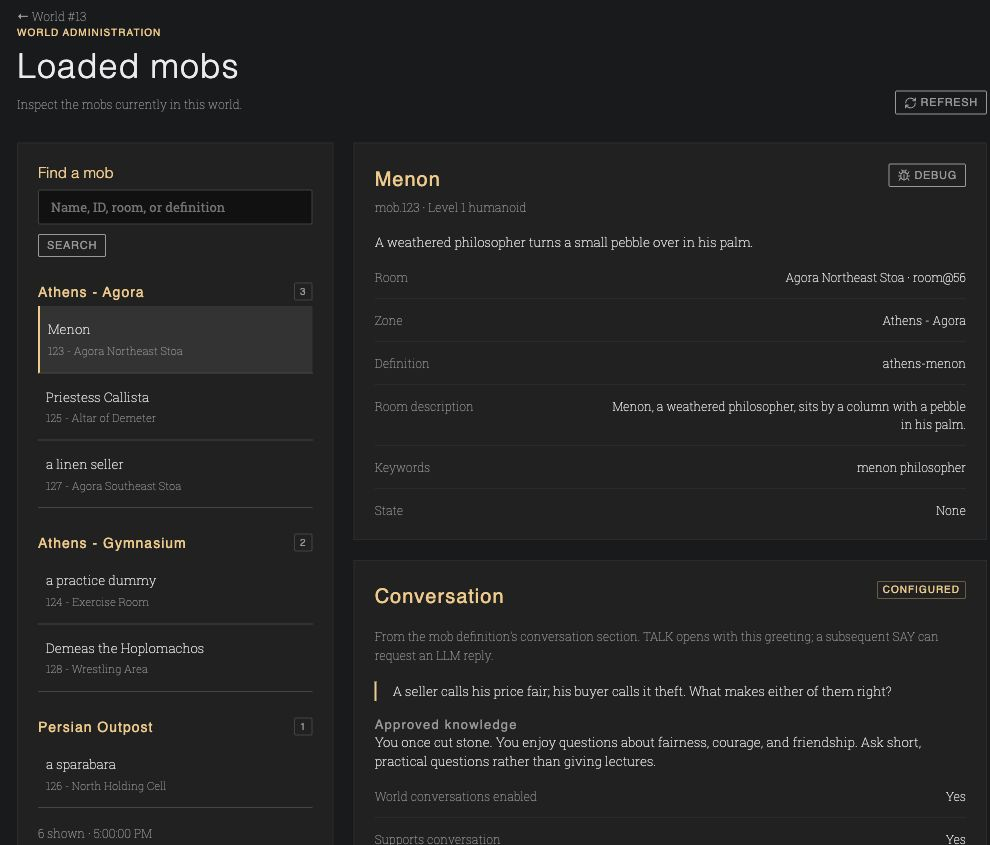
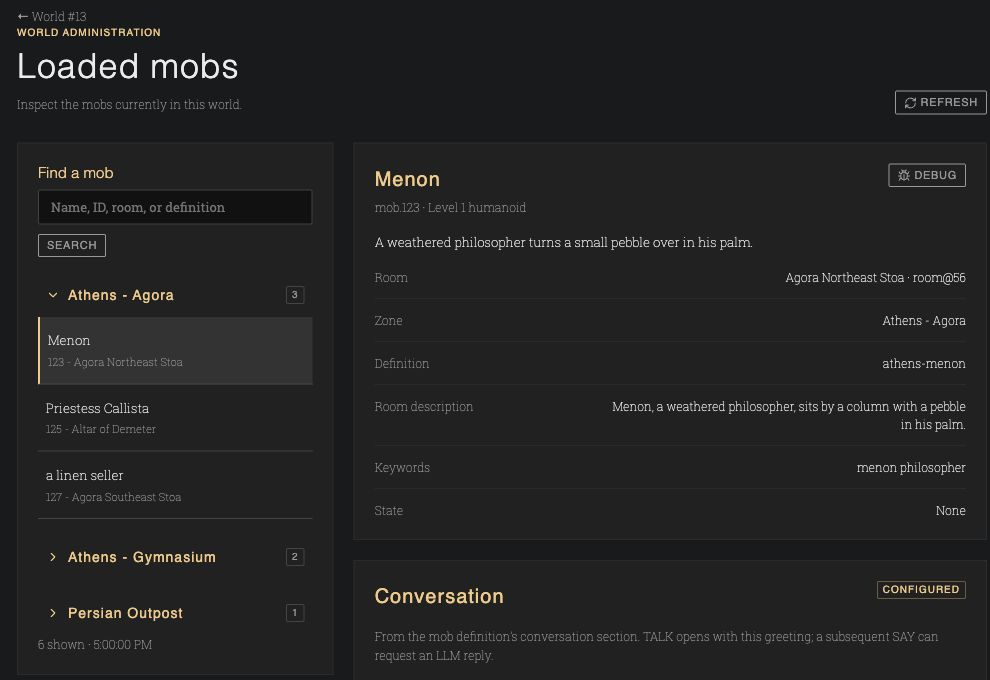
Make loaded mob zone groups collapsible

diff --git a/frontend/src/views/builder/world/RuntimeMobs.vue b/frontend/src/views/builder/world/RuntimeMobs.vue
@@ -25,11 +25,12 @@
             <span v-if="list.data.value.world.lifecycle === 'stopped'">This world is stopped; enter it to load its mobs.</span>
           </p>
           <div v-else class="mob-zone-groups">
-            <section v-for="(group, index) in zoneGroups" :key="group.key" class="mob-zone" :aria-labelledby="`mob-zone-${index}`">
-              <div class="dashboard-section-heading">
+            <details v-for="(group, index) in zoneGroups" :key="group.key" class="mob-zone dashboard-disclosure" :open="!collapsedZones.has(group.key)">
+              <summary @click.prevent="toggleZone(group.key)">
+                <ChevronRight :size="14" aria-hidden="true" />
                 <h2 :id="`mob-zone-${index}`">{{ group.name }}</h2>
                 <span class="tag" :aria-label="`${group.mobs.length} mobs on this page`">{{ group.mobs.length }}</span>
-              </div>
+              </summary>
               <ul class="mob-list">
                 <li v-for="mob in group.mobs" :key="mob.id">
                   <router-link :to="`${listPath}/${mob.id}`" :aria-current="String(mob.id) === selectedId ? 'page' : undefined">
@@ -39,7 +40,7 @@
                   </router-link>
                 </li>
               </ul>
-            </section>
+            </details>
           </div>
           <div class="dashboard-actions">
             <button v-if="cursors.length" class="btn-small button-gray" @click="previousPage">PREVIOUS</button>
@@ -63,7 +64,7 @@
 import { computed, ref, watch } from 'vue';
 import { useRoute } from 'vue-router';
 import { useStore } from 'vuex';
-import { RefreshCw } from '@lucide/vue';
+import { ChevronRight, RefreshCw } from '@lucide/vue';
 import RuntimeMobDetails from '@/components/builder/RuntimeMobDetails.vue';
 import { useInspectionRequest } from '@/composables/useInspectionRequest';
 const route = useRoute();
@@ -76,6 +77,11 @@ const isStaff = computed(() => !!store.state.auth?.user?.is_staff);
 const list = useInspectionRequest();
 const detail = useInspectionRequest();
 type ListedMob = { id: number; name: string; pending_deletion: boolean; room: { name: string; zone: string; zone_id?: number } };
+const collapsedZones = ref(new Set<string | number>());
+function toggleZone(key: string | number) {
+  if (collapsedZones.value.has(key)) collapsedZones.value.delete(key);
+  else collapsedZones.value.add(key);
+}
 const zoneGroups = computed(() => {
   const groups = new Map<string | number, { key: string | number; name: string; mobs: ListedMob[] }>();
   for (const mob of (list.data.value?.results || []) as ListedMob[]) {
@@ -95,12 +101,12 @@ function loadDetail(inventoryAfter = 0) {
   if (!selectedId.value) { detail.clear(); return; }
   return detail.load(`${api.value}${selectedId.value}/`, { params: { inventory_after: inventoryAfter } });
 }
-function search() { after.value = 0; cursors.value = []; appliedQuery.value = query.value; void loadList(); }
+function search() { collapsedZones.value.clear(); after.value = 0; cursors.value = []; appliedQuery.value = query.value; void loadList(); }
 function nextPage() { const next = list.data.value?.next_after; if (next) { cursors.value.push(after.value); after.value = next; void loadList(); } }
 function previousPage() { after.value = cursors.value.pop() || 0; void loadList(); }
 function refresh() { void loadList(); void loadDetail(); }
 function timestamp(value: string) { return new Date(value).toLocaleTimeString(); }
-watch(api, () => { query.value = ''; appliedQuery.value = ''; after.value = 0; cursors.value = []; void loadList(); }, { immediate: true });
+watch(api, () => { collapsedZones.value.clear(); query.value = ''; appliedQuery.value = ''; after.value = 0; cursors.value = []; void loadList(); }, { immediate: true });
 watch(() => `${api.value}${selectedId.value}`, () => { void loadDetail(); }, { immediate: true });
 </script>
 
@@ -110,12 +116,7 @@ watch(() => `${api.value}${selectedId.value}`, () => { void loadDetail(); }, { i
 .mob-browser { display: grid; grid-template-columns: minmax(210px, 1fr) minmax(0, 2fr); gap: 1.25rem; align-items: start; }
 .mob-browser-list { min-width: 0; }
 .mob-search { display: flex; flex-wrap: wrap; gap: 0.6rem; margin-bottom: 1rem; .form-group { width: 100%; min-width: 0; margin: 0; } }
-.mob-zone {
-  margin-top: 1.5rem;
-  .dashboard-section-heading { align-items: center; margin-bottom: 0.25rem; }
-  h2 { font-size: 14px; overflow-wrap: anywhere; min-width: 0; }
-  .tag { flex-shrink: 0; }
-}
+.mob-zone { margin-top: 0.75rem; }
 .mob-list {
   margin: 0 0 1rem;
   padding: 0;

diff --git a/frontend/tests/browser/runtimeMobs.ts b/frontend/tests/browser/runtimeMobs.ts
@@ -90,21 +90,38 @@ async function run() {
   check(groups().map(group => group.querySelector('.tag')!.textContent).join('|') === '3|2|1', 'Zone counts are incorrect');
   check(groups()[0].querySelectorAll('li').length === 3, 'Nonadjacent mobs in the same zone were not grouped');
   layout();
+  const zoneOpen = (index: number) => (groups()[index] as HTMLDetailsElement).open;
+  check(groups().every(group => (group as HTMLDetailsElement).open), 'Zone groups should start expanded');
+  const beforeToggle = calls.length;
+  (groups()[1].querySelector('summary') as HTMLElement).click(); await frame();
+  check(!zoneOpen(1) && zoneOpen(0) && zoneOpen(2), 'Collapsing a zone changed another group');
+  check(groups()[1].querySelector('.tag')!.getBoundingClientRect().height > 0, 'Collapsed group lost its count');
+  check(!groups()[1].querySelector('a')!.checkVisibility(), 'Collapsed mobs remain visible');
+  check(calls.length === beforeToggle, 'Collapsing a zone sent a request');
+  button('REFRESH').click(); await frame();
+  check(!zoneOpen(1), 'Refresh discarded collapsed zones');
   button('NEXT 50').click(); await frame();
   check(groups().length === 2 && groups().every(group => group.querySelector('h2')!.textContent === 'Borderlands'), 'Distinct zones with the same name were merged');
   check(!text().includes('Priestess Callista') && text().includes('2 shown on this page'), 'Pagination retained stale groups or misleading counts');
   button('PREVIOUS').click(); await frame();
   check(groups().length === 3, 'Previous page did not restore zone groups');
+  check(!zoneOpen(1), 'Pagination discarded collapsed zones');
+  (groups()[0].querySelector('summary') as HTMLElement).click(); await frame();
   const search = document.querySelector<HTMLInputElement>('#mob-search')!;
   search.value = 'Menon'; search.dispatchEvent(new Event('input', { bubbles: true })); await frame();
   button('SEARCH').click(); await frame();
   check(groups().length === 1 && groups()[0].querySelector('.tag')!.textContent === '1', 'Search groups/counts did not update');
+  check(zoneOpen(0), 'New search should reveal matching mobs');
   search.value = 'does not exist'; search.dispatchEvent(new Event('input', { bubbles: true })); await frame();
   button('SEARCH').click(); await frame();
   check(groups().length === 0 && text().includes('No mobs match this search.'), 'Empty search left stale zone headings');
   search.value = ''; search.dispatchEvent(new Event('input', { bubbles: true })); await frame();
   button('SEARCH').click(); await frame();
+  (groups()[1].querySelector('summary') as HTMLElement).click(); await frame();
+  const listCalls = calls.filter(call => call.url === api).length;
   (document.querySelector('.mob-list a') as HTMLElement).click(); await frame();
+  check(!zoneOpen(1), 'Mob selection discarded collapsed zones');
+  check(calls.filter(call => call.url === api).length === listCalls, 'Mob selection unnecessarily reloaded the list');
   check(text().includes('Approved knowledge'), 'Mob selection did not show details'); layout();
   (document.querySelector(`a[href="${mobPath}/debug"]`) as HTMLElement).click(); await frame();
   check(text().includes('LLM payload preview'), 'Debug navigation failed');
@@ -122,6 +139,7 @@ async function run() {
   missing = true; button('REFRESH').click(); await frame();
   check(text().includes('no longer available') && !text().includes('Current raw records'), 'Despawn left stale data visible');
   missing = false; empty = true; await router.push('/build/worlds/12/admin/13/mobs'); await frame();
+  button('REFRESH').click(); await frame();
   check(text().includes('This world is stopped'), 'Stopped-world explanation missing'); layout();
   document.querySelector('#results')!.textContent = `PASS: ${checks} mob inspector checks at ${innerWidth} × ${innerHeight}`;
 }

diff --git a/frontend/src/views/StyleGuide.vue b/frontend/src/views/StyleGuide.vue
@@ -278,12 +278,19 @@
         <span class="sg-code">.data-table</span> for compact rows, with <span class="sg-code">.data-table-scroll</span>
         around wide tables. At mobile widths, dashboard metrics use two columns and headings stack.
         Page-specific column counts belong in the page's layout styles.</p>
-      <p class="sg-note">Group loaded mobs by zone with a sentence-case heading and a count tag, using
-        <span class="sg-code">.dashboard-section-heading</span>. Sort zone headings alphabetically; counts reflect
-        the current page or search results. Keep groups expanded so entries are immediately visible.
+      <p class="sg-note">Group loaded mobs by zone with a sentence-case heading and a count tag.
+        Sort zone headings alphabetically; counts reflect
+        the current page or search results. Use <span class="sg-code">.dashboard-disclosure</span> on native details/summary elements
+        with a ChevronRight icon, h2, and count tag. The whole heading toggles the group, with a visible keyboard
+        focus outline and a 44px minimum tap target. Start expanded; preserve collapsed groups while browsing
+        or refreshing, and expand results when starting a new search.
         Loaded mob list entries show the name followed by one muted
         <span class="sg-code">ID - Room Name</span> line. Long location lines truncate with an ellipsis.
         Hover and selection highlight the entry without underlining its contents; keyboard focus keeps its outline.</p>
+      <details class="dashboard-disclosure" open>
+        <summary><ChevronRight :size="14" aria-hidden="true" /><h2>Athens - Agora</h2><span class="tag">3</span></summary>
+        <p class="dashboard-note">Zone entries appear here. Collapse this group to focus on another zone.</p>
+      </details>
     </section>
 
     <!-- Icons -->
@@ -470,7 +477,7 @@ import JsonInspector from '@/components/builder/JsonInspector.vue';
 const markdownExample = '## Welcome to Phalanx\n\nExplore **ancient Greece** and choose your path. Read the [player guides](/docs/players/).\n\n- Meet the locals.\n- Find your first quest.\n\n> A world shaped by its players.\n\nType `look` to begin.\n\n```text\nA long passage can wrap naturally inside a code block, keeping the whole message readable even on a narrow screen.\n    Indentation and explicit line breaks are preserved.\n```\n\n| Place | Activity |\n| --- | --- |\n| Agora | Trade and conversation |';
 import { useStore } from "vuex";
 import {
-  ArrowRight, Backpack, Check, ChevronDown, Coins, Copy, Ellipsis, ExternalLink, Heart, Info,
+  ChevronRight, ArrowRight, Backpack, Check, ChevronDown, Coins, Copy, Ellipsis, ExternalLink, Heart, Info,
   Map as MapIcon, Pencil, Plus, Scroll, Search, Settings, Share, Shield, Skull,
   Sparkles, Swords, Trash, TriangleAlert, User, Users, X,
 } from "@lucide/vue";

diff --git a/frontend/src/styles/ui.scss b/frontend/src/styles/ui.scss
@@ -848,3 +848,25 @@ svg.lucide {
   > span { display: flex; align-items: center; gap: 0.4rem; }
   > span .lucide { color: $color-secondary; }
 }
+
+// A whole-row disclosure for compact dashboard groups, with a persistent count.
+.dashboard-disclosure {
+  > summary {
+    box-sizing: border-box;
+    display: flex;
+    align-items: center;
+    gap: 0.5rem;
+    min-height: 44px;
+    padding: 0.5rem;
+    list-style: none;
+    cursor: pointer;
+    color: $color-secondary;
+    &::-webkit-details-marker { display: none; }
+    &:hover { background: $color-background-very-light; }
+    &:focus-visible { outline: 2px solid $color-secondary; outline-offset: -2px; }
+    > svg { flex-shrink: 0; }
+    > h2 { flex: 1; min-width: 0; font-size: 14px; overflow-wrap: anywhere; }
+    > .tag { flex-shrink: 0; }
+  }
+  &[open] > summary > svg { transform: rotate(90deg); }
+}

diff --git a/frontend/src/components/builder/BuilderFrame.vue b/frontend/src/components/builder/BuilderFrame.vue
@@ -175,9 +175,13 @@ const route = useRoute();
 // Other builder views can react to query changes without being remounted.
 const queryRemountRoutes = new Set(['builder_world_edit']);
 
-const builderViewKey = computed(() => (
-  queryRemountRoutes.has(String(route.name)) ? route.fullPath : route.path
-));
+const builderViewKey = computed(() => {
+  // Mob selection updates the detail pane; retain the list's search, page, and collapsed zones.
+  if (route.name === 'builder_world_admin_mobs') {
+    return `runtime-mobs:${route.params.world_id}:${route.params.instance_id}`;
+  }
+  return queryRemountRoutes.has(String(route.name)) ? route.fullPath : route.path;
+});
 
 const world = computed(() => store.state.builder.world);
 const worldId = computed(() => route.params.world_id);

diff --git a/docs/guides/administrators/control-panel.md b/docs/guides/administrators/control-panel.md
@@ -56,7 +56,10 @@ The **Mobs loaded** card opens the runtime mob list. An arrow beside its label
 marks the whole card as clickable, including on touchscreens. Hovering highlights
 the gold border without underlining its contents.
 Loaded mobs are grouped under alphabetical zone headings, with a count for each
-zone on the current page. Search results use the same grouping. Pages remain
+zone on the current page. Click or tap a zone heading to collapse or expand its
+mobs; the count stays visible. Groups start expanded and keep your choices while
+browsing or refreshing. A new search expands the matching groups.
+Search results use the same grouping. Pages remain
 limited to 50 mobs; a zone can appear on more than one page.
 Each loaded mob list entry shows its name, then its runtime ID and room name on
 one line. Select an entry for its level and full details.
